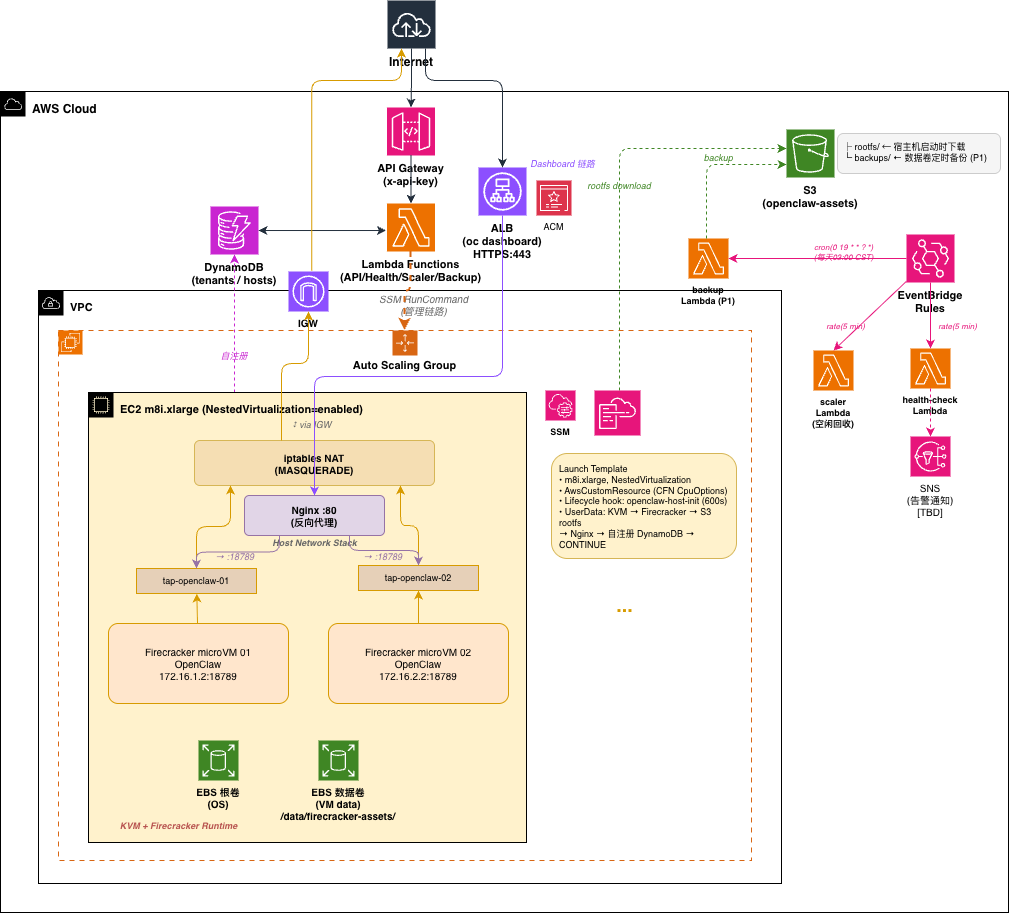
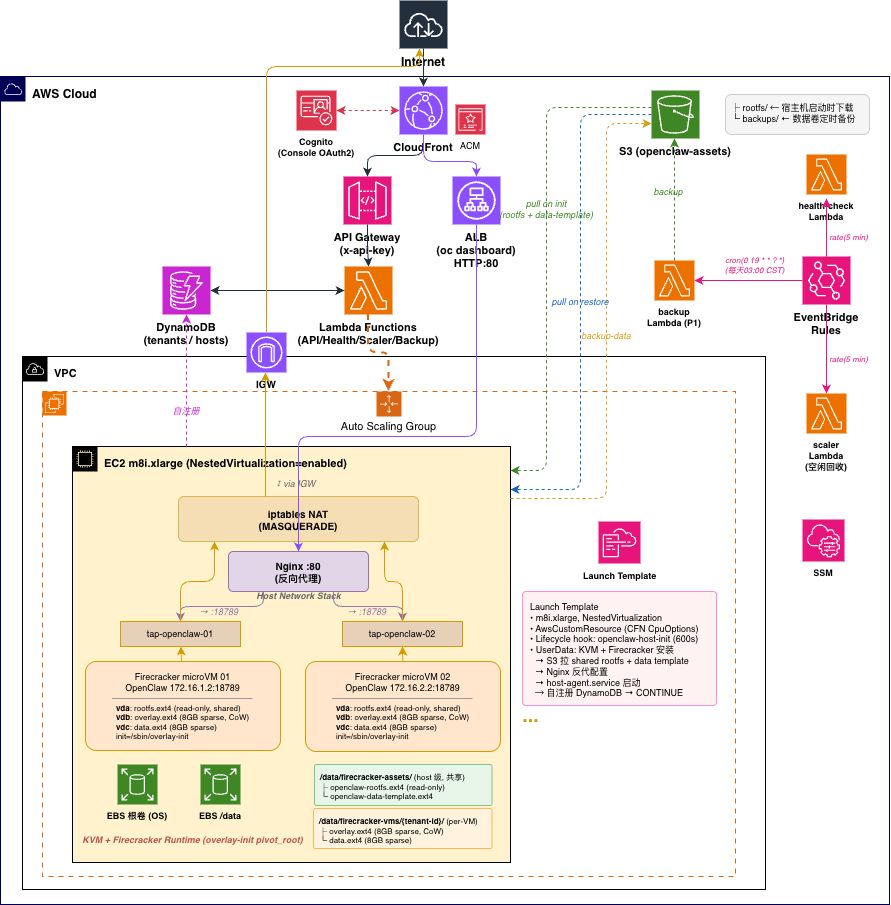
docs: refresh architecture diagrams to match current implement
- oc-system-arch.png / oc-deploy-arch.png: add CloudFront, Cognito, OverlayFS rootfs layout, S3 pull-on-init/restore + backup flows;
  - README + README-CN: show diagrams inline; collapse ASCII version

Changed region(s): [[0.0, 0.0, 1.0, 1.0], [0.6061, 0.0928, 1.0, 0.6497], [0.0, 0.0619, 0.1212, 0.1547]]

diff --git a/README.md b/README.md
@@ -220,6 +220,17 @@ See `config.yml.example` for all options. Redeploy after changes: `./setup.sh <r
 
 ## Architecture
 
+### System Architecture
+
+![System Architecture](docs/oc-system-arch.png)
+
+### Deployment Architecture
+
+![Deployment Architecture](docs/oc-deploy-arch.png)
+
+<details>
+<summary>ASCII version (for AI/text access)</summary>
+
 ```
 Admin / User
     │
@@ -240,18 +251,6 @@ S3: rootfs distribution + data backup + shared skills
 ASG: auto-scaling hosts
 EventBridge: health checks + idle reclamation + scheduled backup
 ```
-
-<details>
-<summary>System Architecture</summary>
-
-![System Architecture](docs/oc-system-arch.png)
-
-</details>
-
-<details>
-<summary>Deployment Architecture</summary>
-
-![Deployment Architecture](docs/oc-deploy-arch.png)
 
 </details>
 

diff --git a/docs/README-CN.md b/docs/README-CN.md
@@ -229,6 +229,17 @@ s3://{bucket}/skills/
 
 ## 架构
 
+### 系统架构
+
+![系统架构](./oc-system-arch.png)
+
+### 部署架构
+
+![部署架构](./oc-deploy-arch.png)
+
+<details>
+<summary>ASCII 版本（方便 AI/文本访问）</summary>
+
 ```
 用户/管理员
     │
@@ -251,18 +262,6 @@ S3: rootfs 分发 + 数据卷备份
 ASG: 宿主机自动扩缩 (配置参见: config.yml)
 EventBridge: 健康检查 + 空闲回收 + 定时备份
 ```
-
-<details>
-<summary>系统架构图</summary>
-
-![系统架构](./oc-system-arch.png)
-
-</details>
-
-<details>
-<summary>部署架构图</summary>
-
-![部署架构](./oc-deploy-arch.png)
 
 </details>
 
